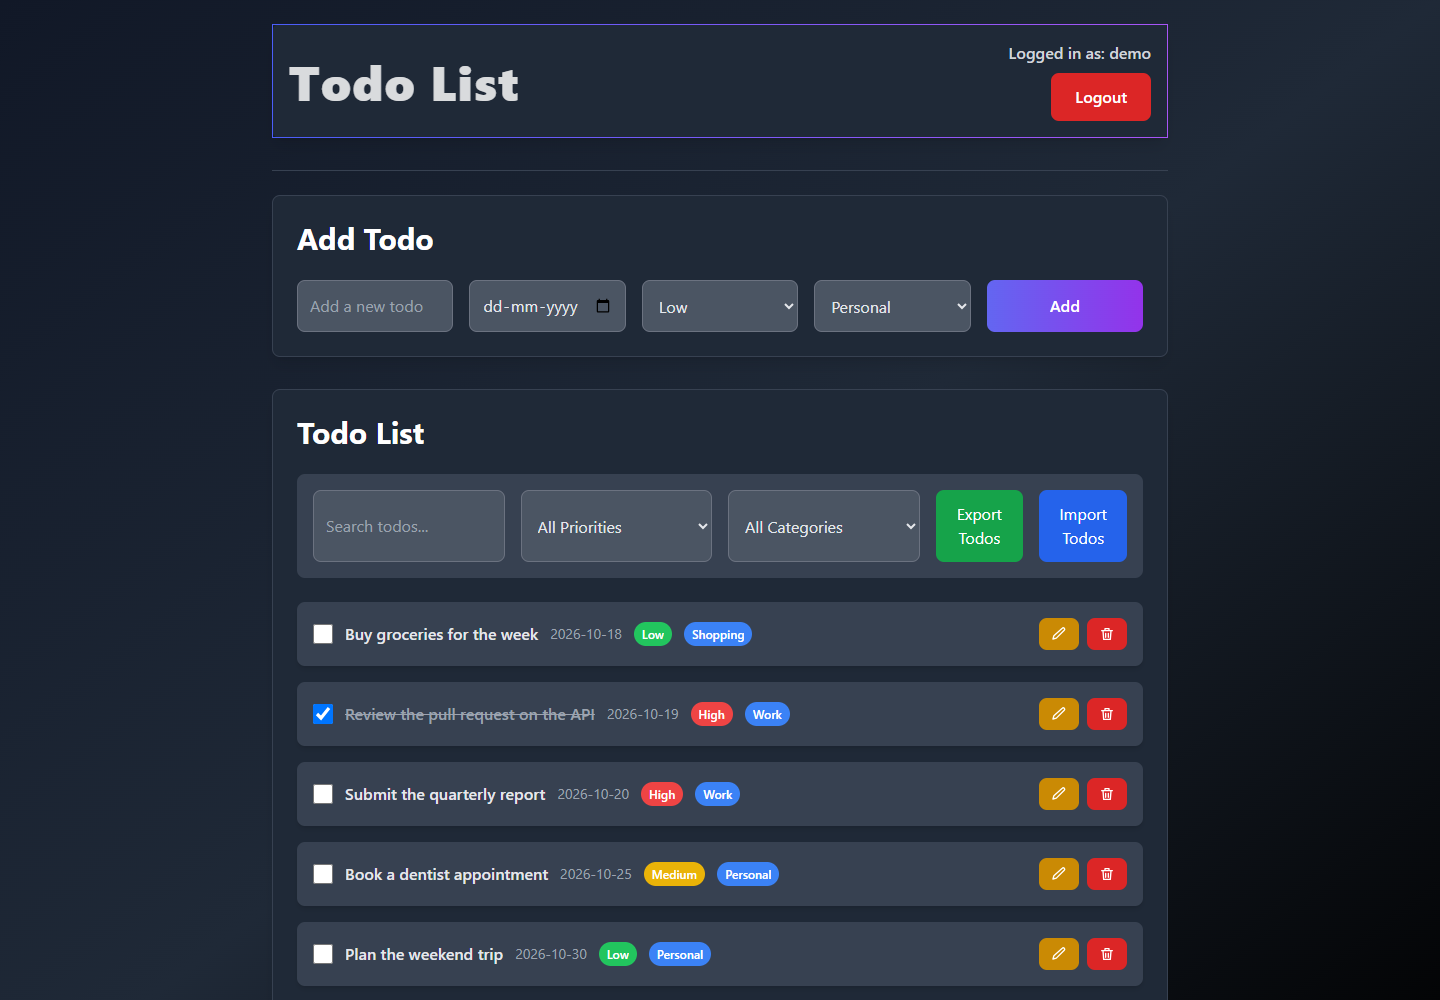
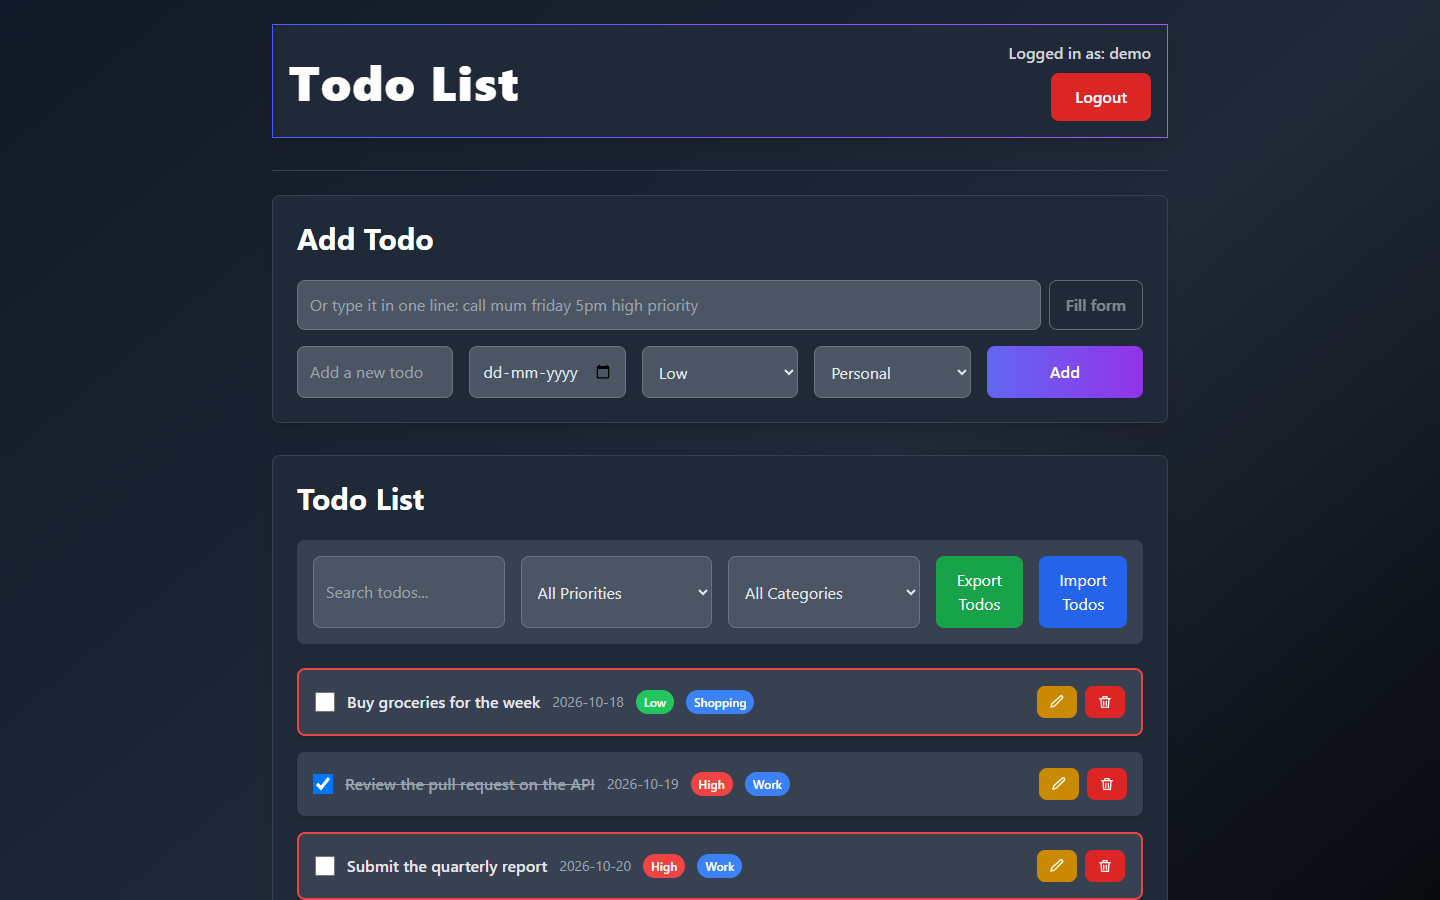
docs: Fill form screenshot, retaken list, measured limits and updated date (#6)

Changed region(s): [[0.1875, 0.2178, 0.8125, 1.0], [0.1875, 0.0, 0.8125, 0.1556]]

diff --git a/README.md b/README.md
@@ -41,7 +41,7 @@
   </a>
 </p>
 
-<p align="center"><sub>Last updated: 2026-10-17 &middot; Live on free tiers (Vercel, Render, Neon), production-grade checklist done</sub></p>
+<p align="center"><sub>Last updated: 2026-11-09 &middot; Live on free tiers (Vercel, Render, Neon), Fill form (AI helper with a rules fallback) live</sub></p>
 
 ---
 
@@ -93,9 +93,12 @@ Things to try in the first two minutes:
     <td width="50%"><img src="docs/images/edit.png" alt="A task open for editing inline, with description, date, priority and category fields"><p align="center"><sub>Inline editing (<a href="#how-it-works">how it works</a>)</sub></p></td>
     <td width="50%"><img src="docs/images/list.png" alt="The full list with one task ticked off"><p align="center"><sub>A completed task struck through (<a href="#engineering-quality">tests</a>)</sub></p></td>
   </tr>
+  <tr>
+    <td colspan="2"><img src="docs/images/fill-form.png" alt="The add form after typing one sentence and pressing Fill form: description, due date, priority and category are filled in, with a note that the AI helper filled them and that nothing is saved until Add"><p align="center"><sub>Fill form: one sentence fills the fields, nothing is saved until Add (<a href="#features">features</a>, <a href="server/eval/README.md">evaluation</a>)</sub></p></td>
+  </tr>
 </table>
 
-<sub>Screenshots taken from the live site on 2026-10-17 with the demo account.</sub>
+<sub>Screenshots taken from the live site with the demo account: the list and Fill form on 2026-11-09, the others on 2026-10-17.</sub>
 
 ## Features
 
